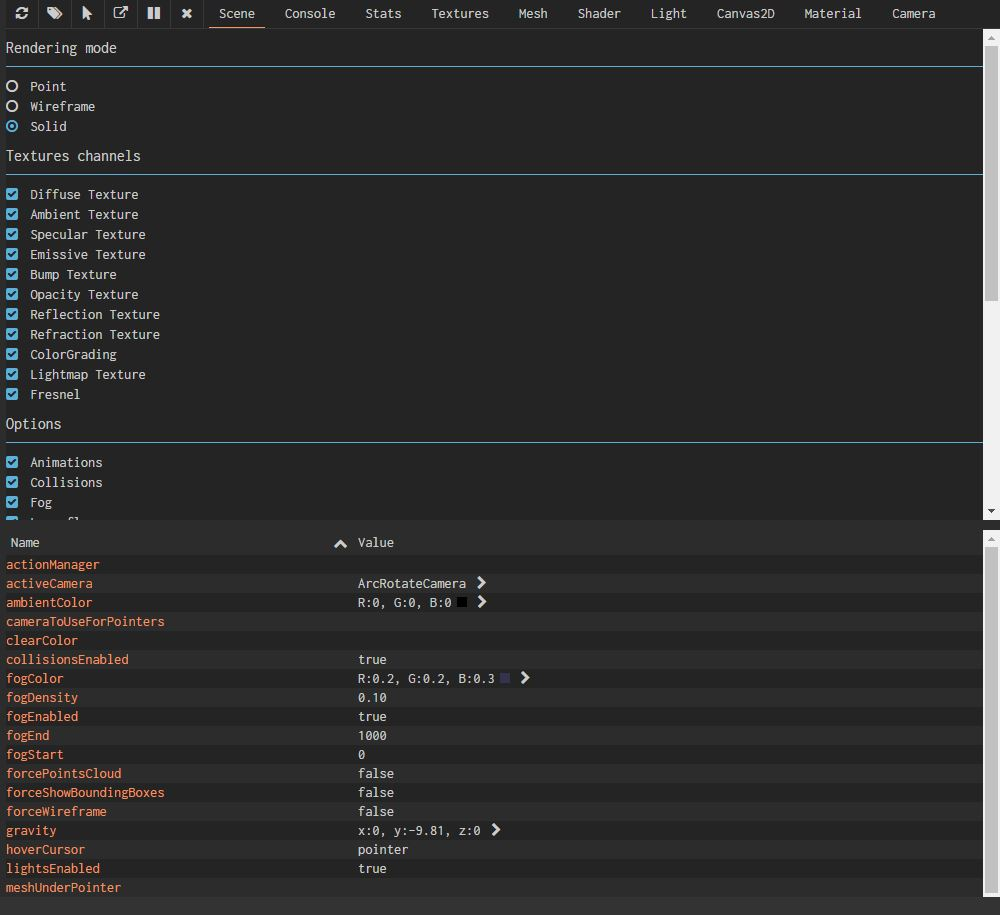
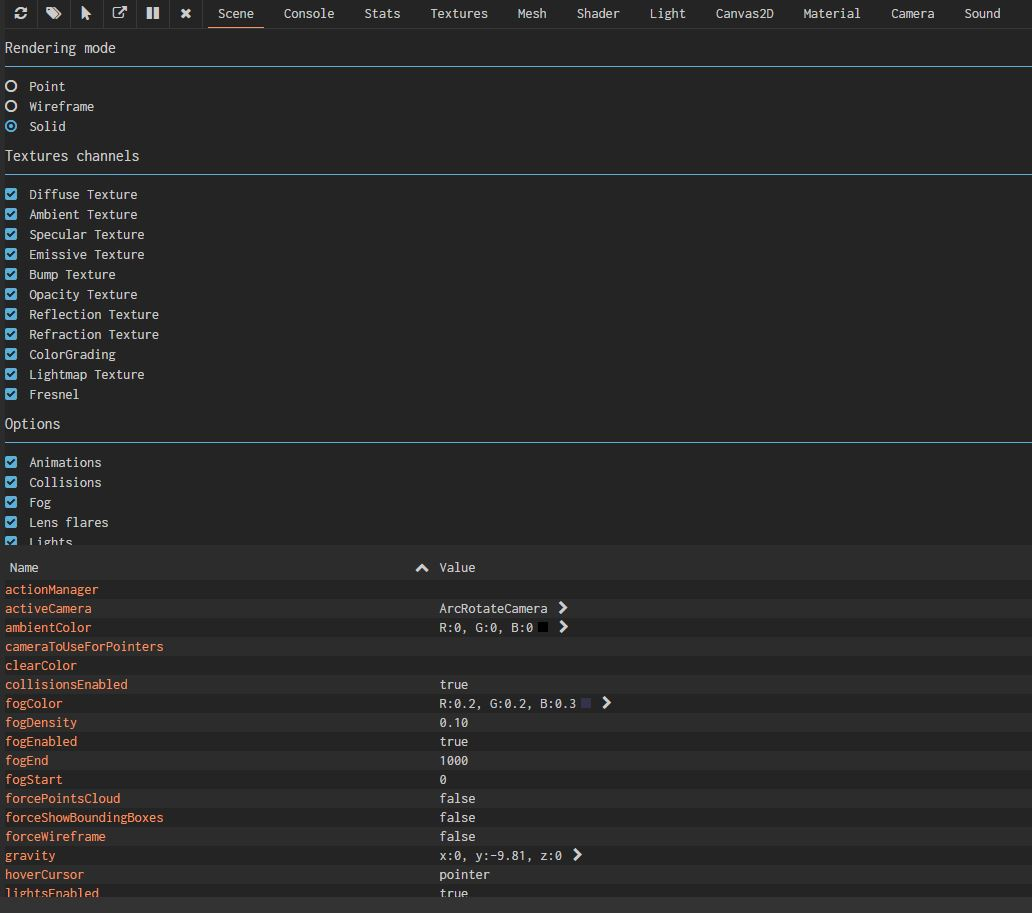
Inspector - sound tab updated

diff --git a/content/overviews/Inspector/Debug_layer_features.md b/content/overviews/Inspector/Debug_layer_features.md
@@ -30,6 +30,7 @@ Each tab has an index (from 0 to 9, 0 is the Scene tab and 9 is the Camera tab) 
 | Canvas2D | 7 | Display canvas2D information. Only displayed if canvas2D is included in the project | The list of Canvas2D, sorted by their name | The selected canvas2D primitive properties |
 | Material | 8 | Display material data | The list of material, sorted by their names. | The selected material properties |
 | Camera | 9 | Display camera data | The list of camera, sorted by their names. | The selected camera properties |
+| Sound | 10 | Display all sounds | The list of sounds, sorted by their names. | The selected sound properties |
 
 In some tabs, a search bar is available to look for a specific object.
 
@@ -76,5 +77,11 @@ When a list of properties is displayed for an object (example for a mesh below),
 ![camera tools](/img/overviews/debuglayer/cameratools.jpg)
 
 * Make the selected camera the active camera
+
+### Sounds
+
+![sound tools](/img/overviews/debuglayer/soundtools.jpg)
+
+* Play the selected sound
 
 
